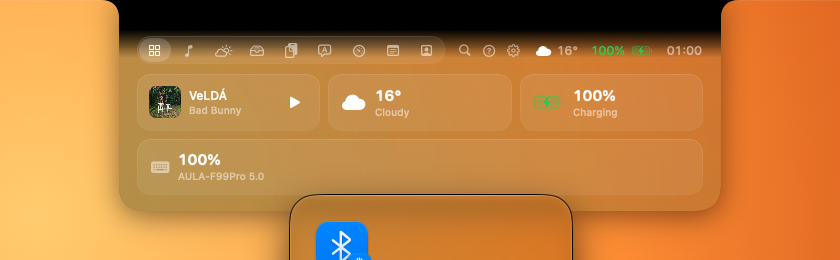
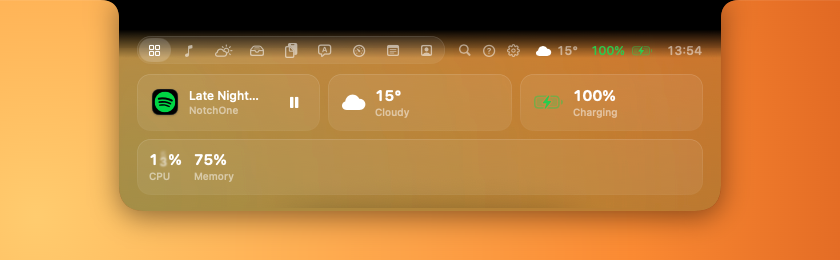
fix: keep the closed notch clear of macOS's mic and camera indicator
macOS draws the indicator as a small window, sometimes right beside the
notch, where the ears half-covered it. Ears now narrow to end before it,
and hide when there's too little room. Also retakes the Home screenshots.

Confidence: medium
Not-tested: the indicator beside the notch on a real call; here it sat in the far right corner, so that case is covered by unit tests only

diff --git a/NotchOne/Window/StatusIndicatorWatcher.swift b/NotchOne/Window/StatusIndicatorWatcher.swift
@@ -1,0 +1,77 @@
+import AppKit
+import CoreGraphics
+
+/// macOS draws its orange mic, green camera and purple screen-recording dot as a small window
+/// above the menu bar, sometimes right next to the notch. This watches for it and narrows the
+/// closed notch's ears so they never cover it. Reading window owners and frames needs no
+/// permission, and only the few windows above the notch are read.
+@MainActor
+final class StatusIndicatorWatcher {
+    static let interval: Duration = .seconds(1)
+    /// The closed notch's flared top corners, outside each ear.
+    static let corner: CGFloat = 6
+
+    private let activity: ActivityState
+    private let panel: () -> NSWindow?
+    private let notchRect: () -> CGRect?
+    private var task: Task<Void, Never>?
+
+    init(activity: ActivityState, panel: @escaping () -> NSWindow?, notchRect: @escaping () -> CGRect?) {
+        self.activity = activity
+        self.panel = panel
+        self.notchRect = notchRect
+    }
+
+    func start() {
+        task?.cancel()
+        task = Task { [weak self] in
+            while !Task.isCancelled {
+                self?.check()
+                try? await Task.sleep(for: Self.interval)
+            }
+        }
+    }
+
+    func stop() {
+        task?.cancel()
+        task = nil
+        activity.earLimit = nil
+    }
+
+    private func check() {
+        guard let panel = panel(), let notchRect = notchRect() else { return }
+        let limit = EarLayout.limit(
+            notchRect: notchRect,
+            indicators: Self.indicators(above: CGWindowID(panel.windowNumber)),
+            corner: Self.corner
+        )
+        if limit != activity.earLimit { activity.earLimit = limit }
+    }
+
+    /// The indicator windows above the notch, in screen coordinates (origin bottom-left).
+    static func indicators(above window: CGWindowID) -> [CGRect] {
+        guard let list = CGWindowListCopyWindowInfo([.optionOnScreenAboveWindow], window) as? [[String: Any]],
+              let primaryHeight = NSScreen.screens.first?.frame.height
+        else { return [] }
+        return list.compactMap { info in
+            guard isIndicator(
+                owner: info[kCGWindowOwnerName as String] as? String,
+                name: info[kCGWindowName as String] as? String,
+                layer: info[kCGWindowLayer as String] as? Int
+            ),
+                let bounds = info[kCGWindowBounds as String] as? NSDictionary,
+                let rect = CGRect(dictionaryRepresentation: bounds),
+                rect.width <= 80, rect.height <= 40
+            else { return nil }
+            return CGRect(x: rect.minX, y: primaryHeight - rect.maxY, width: rect.width, height: rect.height)
+        }
+    }
+
+    /// The window server's "StatusIndicator", drawn near the top of all window levels. Its
+    /// name may be hidden without Screen Recording, so the level is enough.
+    nonisolated static func isIndicator(owner: String?, name: String?, layer: Int?) -> Bool {
+        guard owner == "Window Server" else { return false }
+        if name == "StatusIndicator" { return true }
+        return (layer ?? 0) >= Int(Int32.max) - 100
+    }
+}

diff --git a/NotchOneTests/ShelfClipboardHoverTests.swift b/NotchOneTests/ShelfClipboardHoverTests.swift
@@ -103,3 +103,39 @@ struct HoverAndEarsTests {
         }
     }
 }
+
+struct StatusIndicatorTests {
+    private let notch = CGRect(x: 645, y: 924, width: 180, height: 32)
+
+    @Test func indicatorNextToTheNotchNarrowsTheEars() {
+        // macOS's mic dot 50 pt right of the notch: 50 - 6 (corner) - 4 (gap) left.
+        let mic = CGRect(x: 875, y: 926, width: 28, height: 28)
+        let limit = EarLayout.limit(notchRect: notch, indicators: [mic], corner: 6)
+        #expect(limit == 40)
+        #expect(EarLayout.width(for: .peek(.focus(on: true)), limit: limit) == 40)
+        #expect(EarLayout.width(for: .nowPlaying, limit: limit) == EarLayout.nowPlayingWidth)
+    }
+
+    @Test func farOrLowerIndicatorsDontMatter() {
+        let farRight = CGRect(x: 1443, y: 926, width: 28, height: 28)
+        #expect(EarLayout.limit(notchRect: notch, indicators: [farRight], corner: 6) == 608)
+        let belowMenuBar = CGRect(x: 830, y: 500, width: 28, height: 28)
+        #expect(EarLayout.limit(notchRect: notch, indicators: [belowMenuBar], corner: 6) == nil)
+        #expect(EarLayout.limit(notchRect: notch, indicators: [], corner: 6) == nil)
+    }
+
+    @Test func tooLittleRoomHidesTheEars() {
+        let close = CGRect(x: 830, y: 926, width: 28, height: 28)
+        let limit = EarLayout.limit(notchRect: notch, indicators: [close], corner: 6)
+        #expect(EarLayout.width(for: .nowPlaying, limit: limit) == 0)
+        let left = CGRect(x: 600, y: 926, width: 28, height: 28)
+        #expect(EarLayout.limit(notchRect: notch, indicators: [left], corner: 6) == 7)
+    }
+
+    @Test func onlyTheWindowServersTopWindowCounts() {
+        #expect(StatusIndicatorWatcher.isIndicator(owner: "Window Server", name: "StatusIndicator", layer: 0))
+        #expect(StatusIndicatorWatcher.isIndicator(owner: "Window Server", name: nil, layer: 2_147_483_630))
+        #expect(!StatusIndicatorWatcher.isIndicator(owner: "Window Server", name: "Menubar", layer: 24))
+        #expect(!StatusIndicatorWatcher.isIndicator(owner: "Teams", name: "StatusIndicator", layer: 2_147_483_630))
+    }
+}

diff --git a/NotchOne/Core/ActivityState.swift b/NotchOne/Core/ActivityState.swift
@@ -32,6 +32,32 @@ enum EarLayout {
     /// Room for a short message or a project name.
     static let liveTextWidth: CGFloat = 150
 
+    /// Narrower than this, an ear can't show anything, so it isn't shown.
+    static let minimumWidth: CGFloat = 20
+    /// Space kept between an ear and macOS's own indicator.
+    static let indicatorGap: CGFloat = 4
+
+    /// The ear width, kept within `limit` (room left before macOS's mic or camera indicator).
+    static func width(for content: EarContent?, limit: CGFloat?) -> CGFloat {
+        let width = width(for: content)
+        guard let limit, limit < width else { return width }
+        return limit >= minimumWidth ? limit : 0
+    }
+
+    /// How wide an ear can be without covering an indicator next to the notch, or nil when
+    /// none is close. `corner` is the notch's flared top corner, outside each ear.
+    static func limit(notchRect: CGRect, indicators: [CGRect], corner: CGFloat) -> CGFloat? {
+        let room = indicators
+            .filter { $0.maxY > notchRect.minY && $0.minY < notchRect.maxY }
+            .compactMap { rect -> CGFloat? in
+                if rect.minX >= notchRect.maxX { return rect.minX - notchRect.maxX }
+                if rect.maxX <= notchRect.minX { return notchRect.minX - rect.maxX }
+                return 0
+            }
+            .min()
+        return room.map { max(0, $0 - corner - indicatorGap) }
+    }
+
     static func width(for content: EarContent?) -> CGFloat {
         switch content {
         case nil: 0
@@ -116,7 +142,11 @@ final class ActivityState {
 
     nonisolated static let nowPlayingPriority = 10
 
-    var earWidth: CGFloat { EarLayout.width(for: ears) }
+    /// Room left before macOS's mic, camera or screen-recording indicator, when it's next to
+    /// the notch (see `StatusIndicatorWatcher`).
+    var earLimit: CGFloat?
+
+    var earWidth: CGFloat { EarLayout.width(for: ears, limit: earLimit) }
 
     /// While a new file peeks, hovering doesn't open the notch, so the thumbnail can be dragged.
     var isShowingFilePeek: Bool {

diff --git a/NotchOne/Window/NotchWindowController.swift b/NotchOne/Window/NotchWindowController.swift
@@ -12,6 +12,7 @@ final class NotchWindowController {
     private var hover: HoverController?
     private var swipes: SwipeController?
     private var promptWatcher: SystemPromptWatcher?
+    private var indicatorWatcher: StatusIndicatorWatcher?
     private var metrics: NotchMetrics?
     private var panelFrame: CGRect = .zero
     private var observers: [NSObjectProtocol] = []
@@ -176,6 +177,13 @@ final class NotchWindowController {
         let promptWatcher = SystemPromptWatcher(windows: { [weak self] in [self?.panel].compactMap { $0 } })
         promptWatcher.start()
         self.promptWatcher = promptWatcher
+        let indicatorWatcher = StatusIndicatorWatcher(
+            activity: activity,
+            panel: { [weak self] in self?.panel },
+            notchRect: { [weak self] in self?.metrics?.notchRect }
+        )
+        indicatorWatcher.start()
+        self.indicatorWatcher = indicatorWatcher
         observeKeyboard()
 
         // First launch: the tour. After an update: only the steps added since.
@@ -305,6 +313,8 @@ final class NotchWindowController {
         swipes = nil
         promptWatcher?.stop()
         promptWatcher = nil
+        indicatorWatcher?.stop()
+        indicatorWatcher = nil
         panel?.orderOut(nil)
         panel?.close()
         dropCatcher?.orderOut(nil)

diff --git a/NotchOne/UI/NotchRootView.swift b/NotchOne/UI/NotchRootView.swift
@@ -18,7 +18,7 @@ struct NotchRootView: View {
         let isOpen = model.isOpen
         let isPill = model.outline == .pill
         let ears = isOpen ? nil : model.activity.ears
-        let earWidth = EarLayout.width(for: ears)
+        let earWidth = isOpen ? 0 : model.activity.earWidth
         let notch = model.notchSize
         let topRadius = isPill ? 0 : (isOpen ? NotchRadius.openTop : NotchRadius.closedTop)
         let bottomRadius = isPill
@@ -62,7 +62,7 @@ struct NotchRootView: View {
                             .combined(with: .scale(scale: 0.92, anchor: .top))
                             .animation(.easeOut(duration: 0.18))
                     )
-            } else if let ears {
+            } else if let ears, earWidth > 0 {
                 EarsView(content: ears, activity: model.activity, notchSize: notch, earWidth: earWidth)
                     .padding(.horizontal, topRadius)
                     .transition(.opacity.animation(Motion.quick))

diff --git a/NotchOne/Services/NowPlaying/NowPlayingService.swift b/NotchOne/Services/NowPlaying/NowPlayingService.swift
@@ -170,7 +170,16 @@ final class NowPlayingService: PlayerControlling {
     // MARK: - Publishing
 
     private func publish() {
-        let current = NowPlayingParser.select(infos.values)
+        var current = NowPlayingParser.select(infos.values)
+        #if DEBUG
+        // `-debugTrack <title>` shows a sample track instead of what's playing (for screenshots).
+        if let title = UserDefaults.standard.string(forKey: "debugTrack") {
+            current = NowPlayingInfo(
+                source: .system, title: title, artist: "NotchOne", album: "", duration: 200, position: 60,
+                isPlaying: true, updatedAt: Date(), appBundleID: "com.spotify.client"
+            )
+        }
+        #endif
         if current?.trackKey != activity.nowPlaying?.trackKey || current?.isPlaying != activity.nowPlaying?.isPlaying {
             withAnimation(.spring(response: 0.35, dampingFraction: 0.85)) { activity.nowPlaying = current }
         } else {
